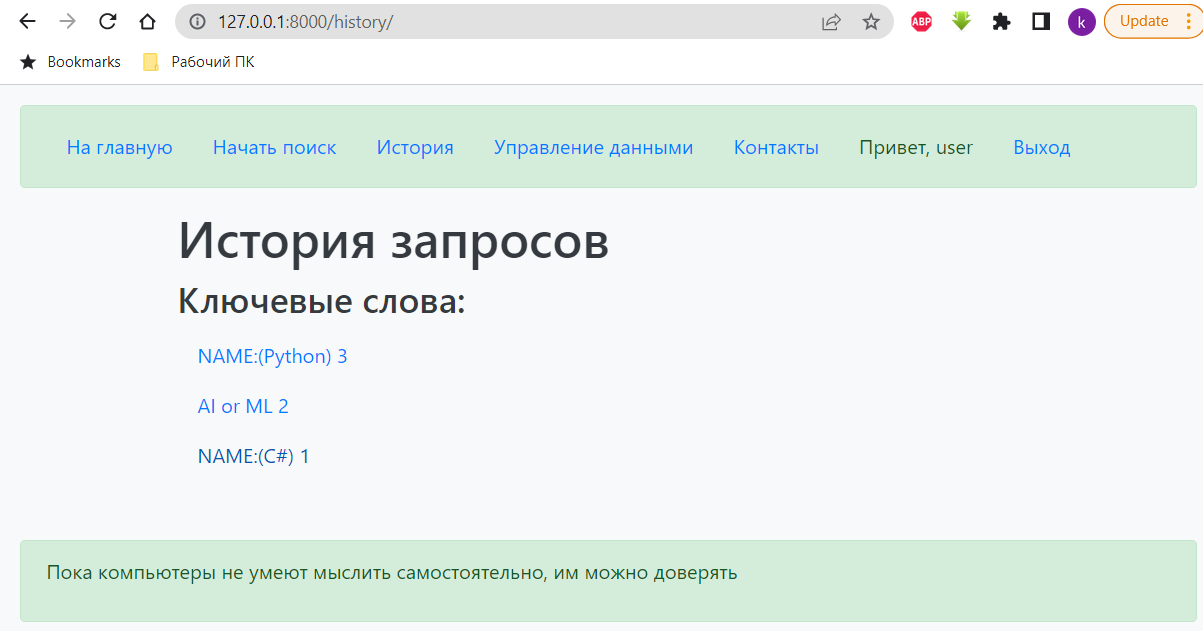
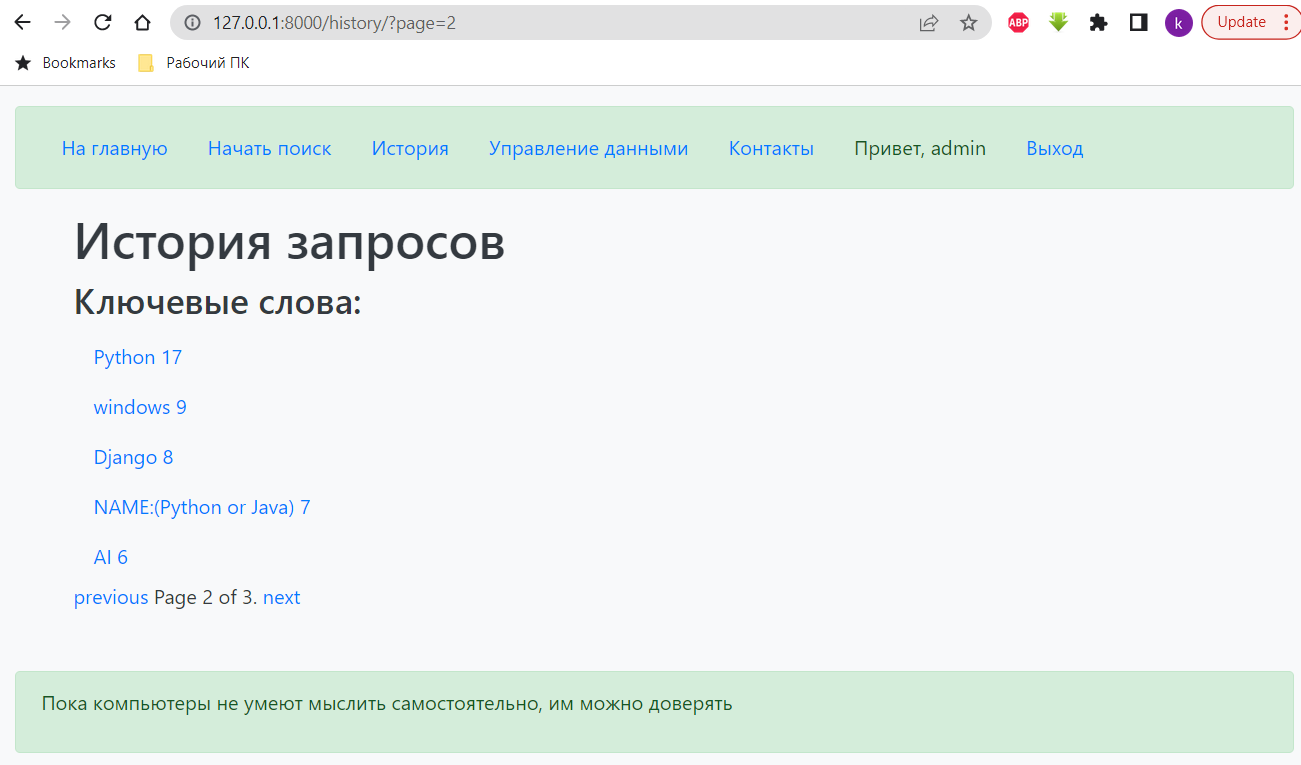
Added Paginator

diff --git a/kvblog/blogapp/templates/blogapp/history.html b/kvblog/blogapp/templates/blogapp/history.html
@@ -9,7 +9,27 @@
  {% for request in requests %}
        <a class="nav-link" href="/result/{{ request.id }}/">{{ request.keywords }}  {{ request.id }}</a>
  {% endfor %}
-<!--table - таблица, tr-строка, td-столбец, th-заголовок-->
+        <!-- Pager -->
+
+        <div class="clearfix">
+            <div class="pagination">
+
+            <span class="step-links">
+                {% if requests.has_previous %}
+                    <a href="?page={{ requests.previous_page_number }}">previous</a>
+                {% endif %}
+
+                <span class="current">
+                    Page {{ requests.number }} of {{ requests.paginator.num_pages }}.
+                </span>
+
+                {% if requests.has_next %}
+                    <a class="step-links" href="?page={{ requests.next_page_number }}">next</a>
+                {% endif %}
+
+            </span>
+            </div>
+        </div>
 <br><br>
 
 {% endblock %}

diff --git a/kvblog/blogapp/templates/blogapp/req_list.html b/kvblog/blogapp/templates/blogapp/req_list.html
@@ -18,7 +18,23 @@
             <a href="{% url 'blog:req_detail' pk=item.pk %}">{{item.keywords}}</a>
         </li>
     {% endfor %}
+    <div class="pagination">
+    <span class="step-links">
+        {% if page_obj.has_previous %}
+            <a href="?page=1">&laquo; first</a>
+            <a href="?page={{ page_obj.previous_page_number }}">previous</a>
+        {% endif %}
 
+        <span class="current">
+            Page {{ page_obj.number }} of {{ page_obj.paginator.num_pages }}.
+        </span>
+
+        {% if page_obj.has_next %}
+            <a href="?page={{ page_obj.next_page_number }}">next</a>
+            <a href="?page={{ page_obj.paginator.num_pages }}">last &raquo;</a>
+        {% endif %}
+    </span>
+</div>
 </ul>
 {% endblock %}
 

diff --git a/kvblog/blogapp/templates/blogapp/result.html b/kvblog/blogapp/templates/blogapp/result.html
@@ -24,6 +24,7 @@
         </tr>
  {% endfor %}
     </table>
+
 {% endblock %}
 
 <div class="alert alert-success" role="alert">

diff --git a/kvblog/blogapp/views.py b/kvblog/blogapp/views.py
@@ -8,27 +8,42 @@ from django.urls import reverse, reverse_lazy
 from django.views.generic.base import ContextMixin
 import hhru.all_data as ad
 import pprint
+from django.core.paginator import Paginator, EmptyPage, PageNotAnInteger
 
 
 # Create your views here.
 def main_view(request):
-    requests = Hh_Request.objects.all()
-    return render(request, 'blogapp/index.html', context={'requests': requests})
+    # requests = Hh_Request.objects.all()
+    # return render(request, 'blogapp/index.html', context={'requests': requests})
+    return render(request, 'blogapp/index.html')
 
 @login_required
 def history(request):
     # обратная сортировка
     requests = Hh_Request.objects.order_by('id').reverse()
-    responses = Hh_Response.objects.all()
-    return render(request, 'blogapp/history.html', context={'requests': requests, 'responses': responses})
+    paginator = Paginator(requests, 5)
+    # responses = Hh_Response.objects.all()
+
+    page = request.GET.get('page')
+    try:
+        requests = paginator.page(page)
+    except PageNotAnInteger:
+        # If page is not an integer, deliver first page.
+        requests = paginator.page(1)
+    except EmptyPage:
+        # If page is out of range (e.g. 9999), deliver last page of results.
+        requests = paginator.page(paginator.num_pages)
+
+    # return render(request, 'blogapp/history.html', context={'requests': requests, 'responses': responses})
+    return render(request, 'blogapp/history.html', context={'requests': requests})
 
 @login_required
 def create_result(request, id):
     # hh_request = Hh_Request.objects.last()
     hh_request = get_object_or_404(Hh_Request, id=id)
     responses = Hh_Response.objects.filter(request = hh_request)
-    return render(request, 'blogapp/result.html', context={'hh_request': hh_request, 'responses': responses})
 
+    return render(request, 'blogapp/result.html', context={'hh_request': hh_request, 'responses': responses})
 
 
 @login_required
@@ -92,6 +107,7 @@ def create_contacts(request):
 class Hh_RequestListView(LoginRequiredMixin, ListView):
     model = Hh_Request
     template_name = 'blogapp/req_list.html'
+    paginate_by = 5
 
     def test_func(self):
         # return self.request.user.is_superuser

diff --git a/README.md b/README.md
@@ -1,6 +1,13 @@
 # PDD_26_hw
 Python: Django, Pagination, template filters, signals
 
+## update 2022.06.09
+Added Paginator for the function ‘history’ and page ‘history.html’.
+
+Added Paginator for the class ‘Hh_RequestListView’ and page req_list.html.
+
+![img_11.png](img_11.png)
+
 ## update 2022.06.07
 Added tests for the  views and its response codes.
 
